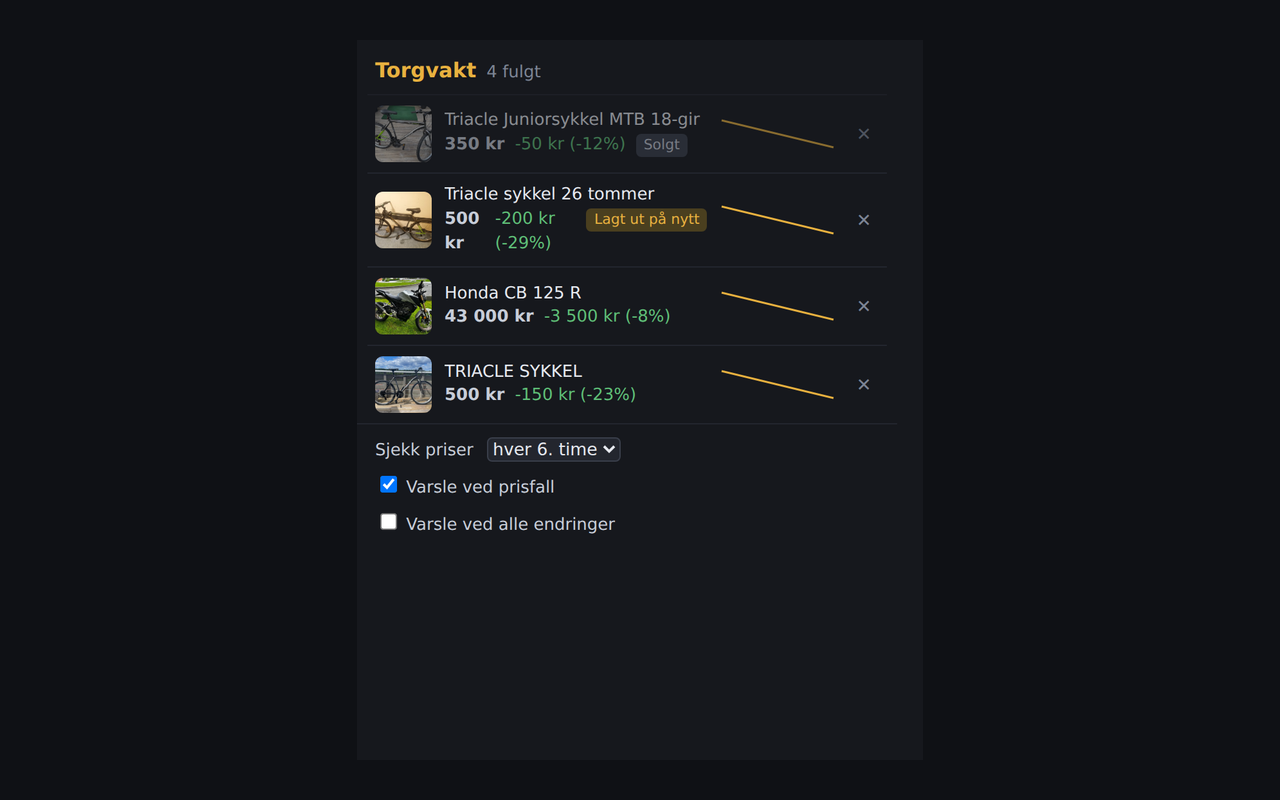
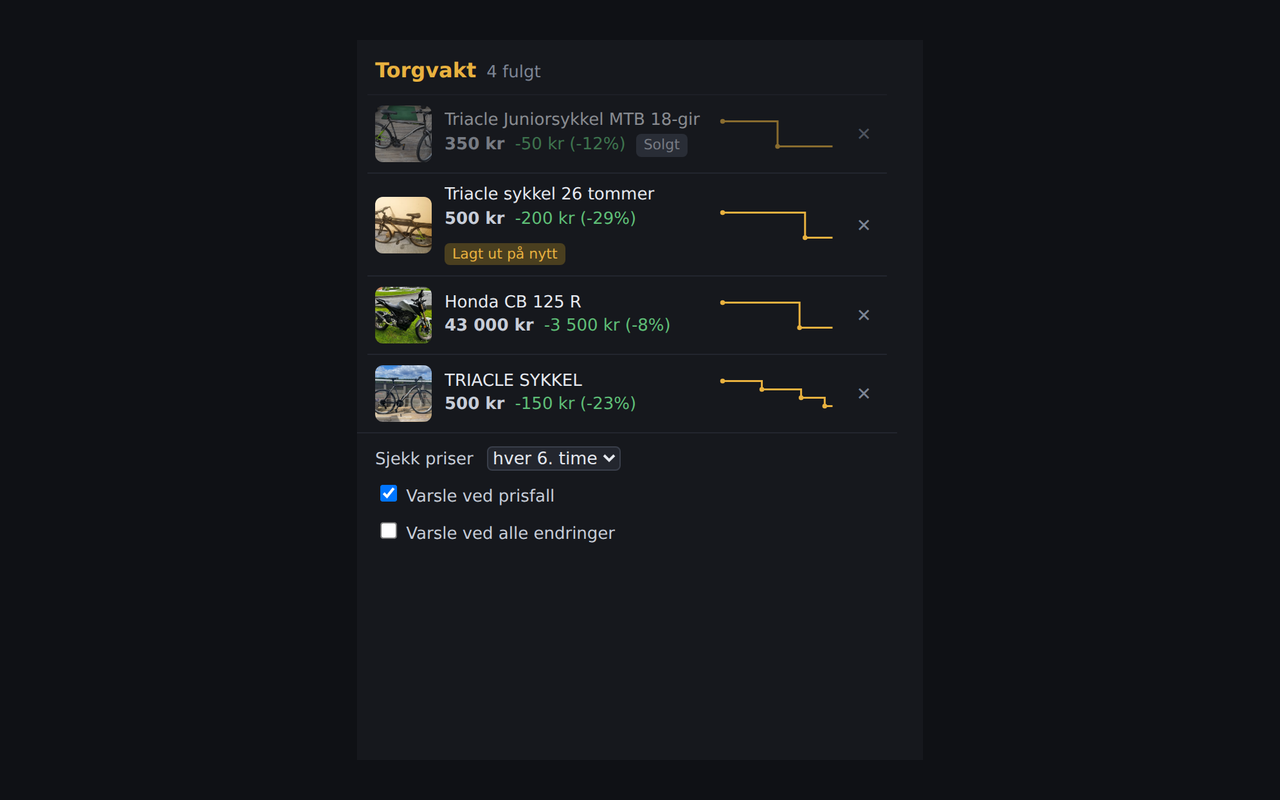
feat: readable step chart with price/date anchors for non-technical users
Inline panel: step line (prices jump, they don't slide), dots per change,
max/min kr labels, start-date and 'i dag' anchors, plain-language change
summary. Popup minis: time-proportional steps with change dots.

diff --git a/src/shared/chart.ts b/src/shared/chart.ts
@@ -1,0 +1,60 @@
+import { formatPrice } from "../core/history";
+import { sparklinePath, sparklinePoints } from "./sparkline";
+import type { PricePoint } from "./types";
+
+const MONTHS = ["jan", "feb", "mar", "apr", "mai", "jun", "jul", "aug", "sep", "okt", "nov", "des"];
+
+export function formatDateShort(ts: number): string {
+  const d = new Date(ts);
+  return `${d.getUTCDate()}. ${MONTHS[d.getUTCMonth()]}`;
+}
+
+// Layout: left gutter for kr labels, bottom gutter for date anchors.
+const W = 264;
+const H = 96;
+const GUTTER_L = 52;
+const GUTTER_B = 18;
+const PAD = 6;
+const PLOT_W = W - GUTTER_L;
+const PLOT_H = H - GUTTER_B;
+
+const LABEL = `fill="#9aa3b2" font-family="system-ui,sans-serif" font-size="11"`;
+
+/**
+ * Readable price history for non-technical users: a step line with a dot per
+ * change, anchored by max/min prices on the left and the date range below.
+ * Returns SVG inner markup for a viewBox of 0 0 264 96.
+ */
+export function priceChart(history: PricePoint[], now: number): string {
+  if (history.length === 0) return "";
+  const prices = history.map((p) => p.price);
+  const min = Math.min(...prices);
+  const max = Math.max(...prices);
+
+  const path = sparklinePath(history, PLOT_W, PLOT_H, PAD, now);
+  const dots = sparklinePoints(history, PLOT_W, PLOT_H, PAD, now)
+    .map(
+      (pt) =>
+        `<circle cx="${(GUTTER_L + pt.x).toFixed(1)}" cy="${pt.y.toFixed(1)}" r="3" fill="#e8b13f" stroke="#16181d" stroke-width="1.5"/>`,
+    )
+    .join("");
+
+  const maxLabel = `<text x="${GUTTER_L - 8}" y="${PAD + 10}" text-anchor="end" ${LABEL}>${formatPrice(max)}</text>`;
+  const minLabel =
+    min === max
+      ? ""
+      : `<text x="${GUTTER_L - 8}" y="${PLOT_H - PAD + 3}" text-anchor="end" ${LABEL}>${formatPrice(min)}</text>`;
+  const startLabel = `<text x="${GUTTER_L}" y="${H - 4}" ${LABEL}>${formatDateShort(history[0].ts)}</text>`;
+  const endLabel = `<text x="${W - 2}" y="${H - 4}" text-anchor="end" ${LABEL}>i dag</text>`;
+
+  return (
+    `<g transform="translate(${GUTTER_L},0)"><path d="${path}" fill="none" stroke="#e8b13f" stroke-width="2"/></g>` +
+    dots +
+    maxLabel +
+    minLabel +
+    startLabel +
+    endLabel
+  );
+}
+
+export const CHART_VIEWBOX = `0 0 ${W} ${H}`;

diff --git a/src/shared/sparkline.ts b/src/shared/sparkline.ts
@@ -1,19 +1,54 @@
 import type { PricePoint } from "./types";
 
-export function sparklinePath(history: PricePoint[], w = 120, h = 32, pad = 2): string {
+/**
+ * Step path, time-proportional: a price holds flat until the seller changes it,
+ * then jumps. The last price extends to "now" (right edge). A diagonal line
+ * would suggest gradual movement that never happened.
+ */
+export function sparklinePath(
+  history: PricePoint[],
+  w = 120,
+  h = 32,
+  pad = 2,
+  now = history[history.length - 1]?.ts ?? 0,
+): string {
   if (history.length === 0) return "";
   const mid = (h / 2).toFixed(1);
   if (history.length === 1) return `M${pad.toFixed(1)},${mid} L${(w - pad).toFixed(1)},${mid}`;
+  const t0 = history[0].ts;
+  const span = Math.max(now - t0, 1);
   const prices = history.map((p) => p.price);
   const min = Math.min(...prices);
   const max = Math.max(...prices);
-  const span = max - min || 1;
-  const stepX = (w - 2 * pad) / (history.length - 1);
-  return history
-    .map((p, i) => {
-      const x = pad + i * stepX;
-      const y = pad + (h - 2 * pad) * (1 - (p.price - min) / span);
-      return `${i === 0 ? "M" : "L"}${x.toFixed(1)},${y.toFixed(1)}`;
-    })
-    .join(" ");
+  const priceSpan = max - min || 1;
+  const x = (ts: number) => (pad + (w - 2 * pad) * Math.min((ts - t0) / span, 1)).toFixed(1);
+  const y = (price: number) => (pad + (h - 2 * pad) * (1 - (price - min) / priceSpan)).toFixed(1);
+  let d = `M${x(history[0].ts)},${y(history[0].price)}`;
+  for (let i = 1; i < history.length; i++) {
+    d += ` H${x(history[i].ts)} V${y(history[i].price)}`;
+  }
+  d += ` H${(w - pad).toFixed(1)}`;
+  return d;
+}
+
+/** Plot coordinates for each change point (for dots). Mirrors sparklinePath. */
+export function sparklinePoints(
+  history: PricePoint[],
+  w = 120,
+  h = 32,
+  pad = 2,
+  now = history[history.length - 1]?.ts ?? 0,
+): { x: number; y: number }[] {
+  if (history.length === 0) return [];
+  if (history.length === 1) return [{ x: pad, y: h / 2 }];
+  const t0 = history[0].ts;
+  const span = Math.max(now - t0, 1);
+  const prices = history.map((p) => p.price);
+  const min = Math.min(...prices);
+  const max = Math.max(...prices);
+  const priceSpan = max - min || 1;
+  return history.map((p) => ({
+    x: pad + (w - 2 * pad) * Math.min((p.ts - t0) / span, 1),
+    y: pad + (h - 2 * pad) * (1 - (p.price - min) / priceSpan),
+  }));
 }

diff --git a/tests/chart.test.ts b/tests/chart.test.ts
@@ -1,0 +1,43 @@
+import { formatDateShort, priceChart } from "../src/shared/chart";
+import { sparklinePath } from "../src/shared/sparkline";
+
+const DAY = 86400000;
+const may27 = Date.UTC(2026, 4, 27);
+const now = Date.UTC(2026, 5, 10);
+
+const history = [
+  { ts: may27, price: 650 },
+  { ts: may27 + 5 * DAY, price: 600 },
+  { ts: may27 + 10 * DAY, price: 550 },
+  { ts: may27 + 13 * DAY, price: 500 },
+];
+
+test("formatDateShort renders Norwegian short dates deterministically", () => {
+  expect(formatDateShort(may27)).toBe("27. mai");
+});
+
+test("sparkline is a time-proportional step path extended to now", () => {
+  const p = sparklinePath([{ ts: 0, price: 1000 }, { ts: 50, price: 500 }], 120, 32, 2, 100);
+  expect(p).toBe("M2.0,2.0 H60.0 V30.0 H118.0");
+});
+
+test("sparkline single point stays a flat line", () => {
+  expect(sparklinePath([{ ts: 1, price: 500 }], 120, 32, 2)).toBe("M2.0,16.0 L118.0,16.0");
+});
+
+test("priceChart anchors the story: kr labels, date range, change dots", () => {
+  const svg = priceChart(history, now);
+  expect(svg).toContain("650 kr"); // max anchor
+  expect(svg).toContain("500 kr"); // min anchor
+  expect(svg).toContain("27. mai"); // start anchor
+  expect(svg).toContain("i dag"); // end anchor
+  expect(svg.match(/<circle/g)).toHaveLength(4); // one dot per change
+  expect(svg).toContain("<path"); // the step line
+});
+
+test("priceChart with a single point shows one price and no misleading slope", () => {
+  const svg = priceChart([{ ts: may27, price: 500 }], now);
+  expect(svg).toContain("500 kr");
+  expect(svg.match(/<circle/g)).toHaveLength(1);
+  expect(svg.match(/500 kr/g)!.length).toBe(1); // min==max collapses to one label
+});

diff --git a/src/content/inline.ts b/src/content/inline.ts
@@ -1,5 +1,5 @@
 import { formatPrice, priceChange } from "../core/history";
-import { sparklinePath } from "../shared/sparkline";
+import { CHART_VIEWBOX, priceChart } from "../shared/chart";
 import type { TrackedListing } from "../shared/types";
 
 // Inline styles: the panel can live inside finn's shadow roots where
@@ -19,21 +19,15 @@ export function renderInlineHistory(listing: TrackedListing): void {
   panel.id = "torgvakt-history";
   panel.style.cssText = PANEL_STYLE;
 
-  const prices = listing.history.map((p) => p.price);
-  const min = Math.min(...prices);
-  const max = Math.max(...prices);
   const change = priceChange(listing.history);
   const changeText = change
-    ? `${change.abs < 0 ? "-" : "+"}${formatPrice(Math.abs(change.abs))} (${change.pct}%) siden du begynte å følge`
-    : "Ingen prisendring registrert ennå";
+    ? `${change.abs < 0 ? "Prisen er satt ned" : "Prisen er satt opp"} ${formatPrice(Math.abs(change.abs))} (${change.pct}%) siden du begynte å følge`
+    : "Ingen prisendring siden du begynte å følge";
 
   panel.innerHTML = `
     <div style="${TITLE_STYLE}">Torgvakt prishistorikk</div>
-    <svg viewBox="0 0 120 32" width="240" height="64" aria-hidden="true">
-      <path d="${sparklinePath(listing.history)}" fill="none" stroke="#e8b13f" stroke-width="2"/>
-    </svg>
+    <svg viewBox="${CHART_VIEWBOX}" width="264" height="96" aria-hidden="true">${priceChart(listing.history, Date.now())}</svg>
     <div style="${META_STYLE}">${changeText}</div>
-    <div style="${META_STYLE}">Lavest: ${formatPrice(min)} / Høyest: ${formatPrice(max)} / ${listing.history.length} punkt</div>
   `;
   btn.insertAdjacentElement("afterend", panel);
 }

diff --git a/src/popup/render.ts b/src/popup/render.ts
@@ -1,5 +1,5 @@
 import { formatPrice, priceChange } from "../core/history";
-import { sparklinePath } from "../shared/sparkline";
+import { sparklinePath, sparklinePoints } from "../shared/sparkline";
 import type { ListingStatus, TrackedListing } from "../shared/types";
 
 export function statusLabel(status: ListingStatus): string {
@@ -46,7 +46,10 @@ export function renderListingItem(l: TrackedListing): string {
       </div>
     </div>
     <svg viewBox="0 0 120 32" width="90" height="24" aria-hidden="true">
-      <path d="${sparklinePath(l.history)}" fill="none" stroke="#e8b13f" stroke-width="2"/>
+      <path d="${sparklinePath(l.history, 120, 32, 3, Date.now())}" fill="none" stroke="#e8b13f" stroke-width="2"/>
+      ${sparklinePoints(l.history, 120, 32, 3, Date.now())
+        .map((pt) => `<circle cx="${pt.x.toFixed(1)}" cy="${pt.y.toFixed(1)}" r="2.5" fill="#e8b13f"/>`)
+        .join("")}
     </svg>
     <button class="tv-remove" data-id="${esc(l.id)}" title="Slutt å følge">✕</button>
   </li>`;

diff --git a/tests/sparkline.test.ts b/tests/sparkline.test.ts
@@ -9,7 +9,7 @@ test("single point renders a flat line", () => {
   expect(p).toBe("M2.0,16.0 L118.0,16.0");
 });
 
-test("two points span the width, lower price is lower on canvas", () => {
+test("two points render as a step: hold, then drop", () => {
   const p = sparklinePath([{ ts: 1, price: 1000 }, { ts: 2, price: 500 }], 120, 32, 2);
-  expect(p).toBe("M2.0,2.0 L118.0,30.0");
+  expect(p).toBe("M2.0,2.0 H118.0 V30.0 H118.0");
 });

diff --git a/src/popup/popup.css b/src/popup/popup.css
@@ -7,7 +7,8 @@ h1 { font-size: 16px; margin: 0; color: #e8b13f; }
 .tv-item img, .tv-noimg { width: 44px; height: 44px; object-fit: cover; border-radius: 6px; background: #23262e; flex: none; }
 .tv-mid { flex: 1; min-width: 0; }
 .tv-mid a { color: #e6e9ef; text-decoration: none; display: block; white-space: nowrap; overflow: hidden; text-overflow: ellipsis; }
-.tv-priceline { display: flex; gap: 8px; align-items: baseline; }
+.tv-priceline { display: flex; gap: 8px; align-items: baseline; flex-wrap: wrap; }
+.tv-priceline strong { white-space: nowrap; }
 .tv-change.tv-down { color: #5fbf77; }
 .tv-change.tv-up { color: #d96c6c; }
 .tv-badge { background: #3a3f4b; border-radius: 4px; padding: 1px 6px; font-size: 11px; white-space: nowrap; }